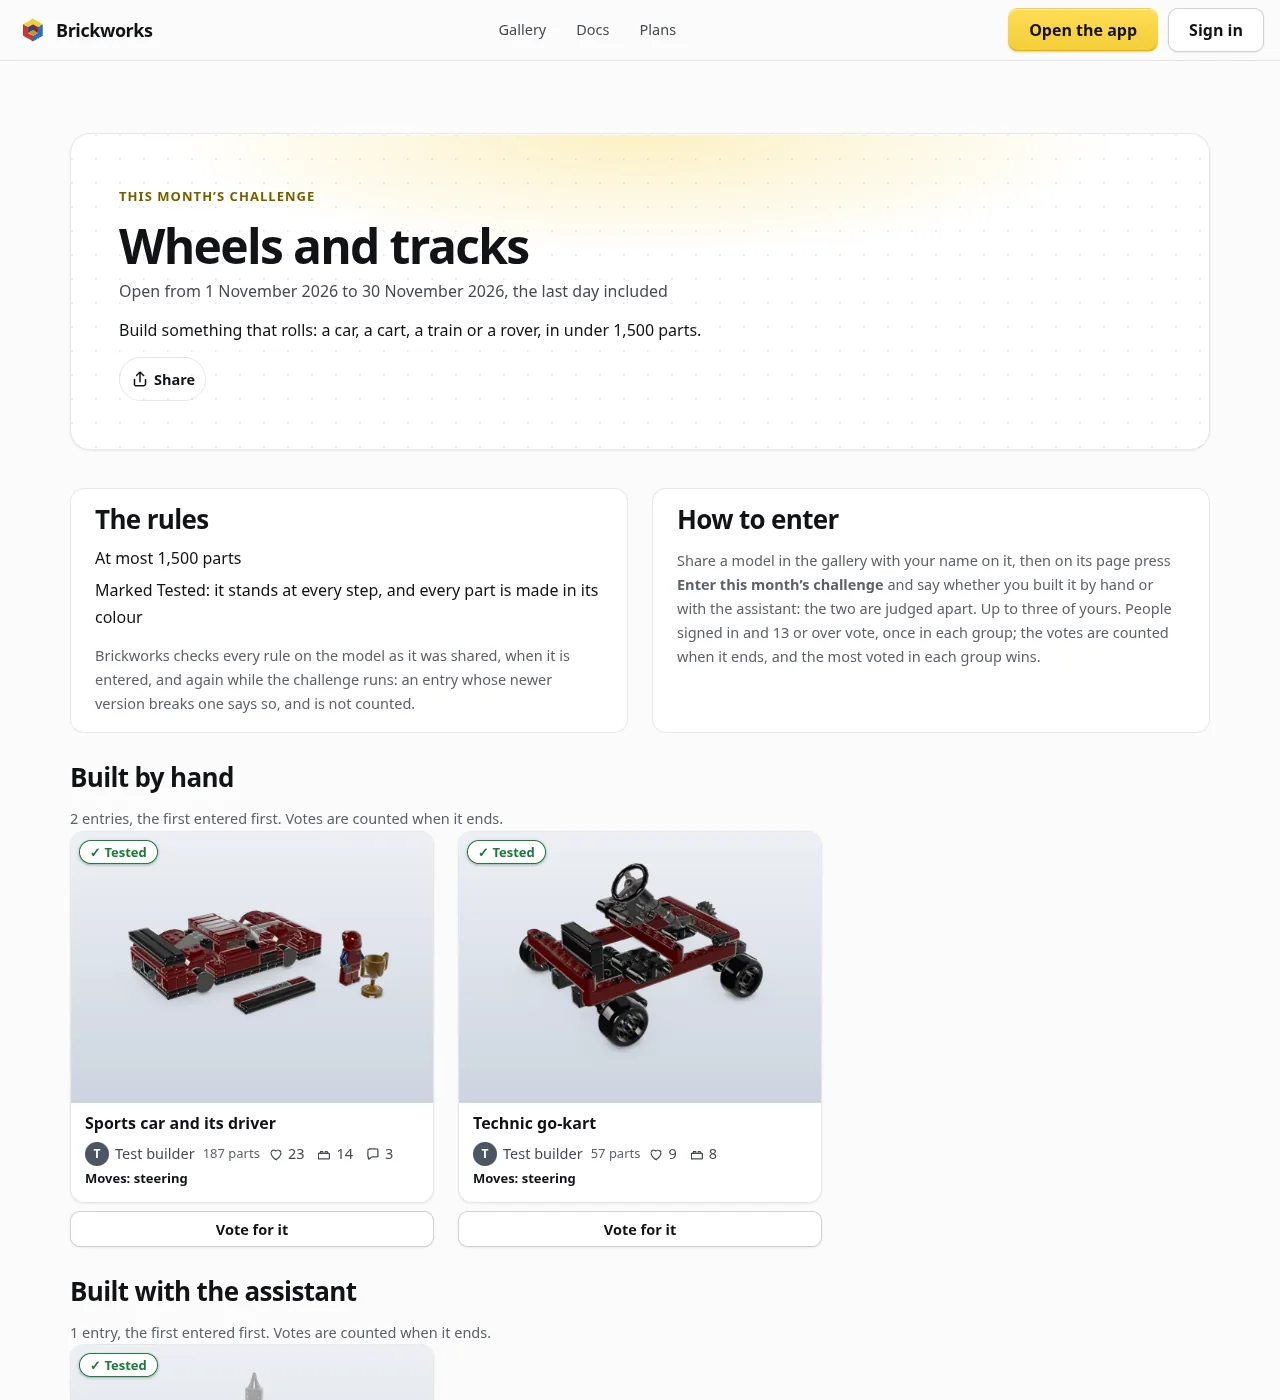
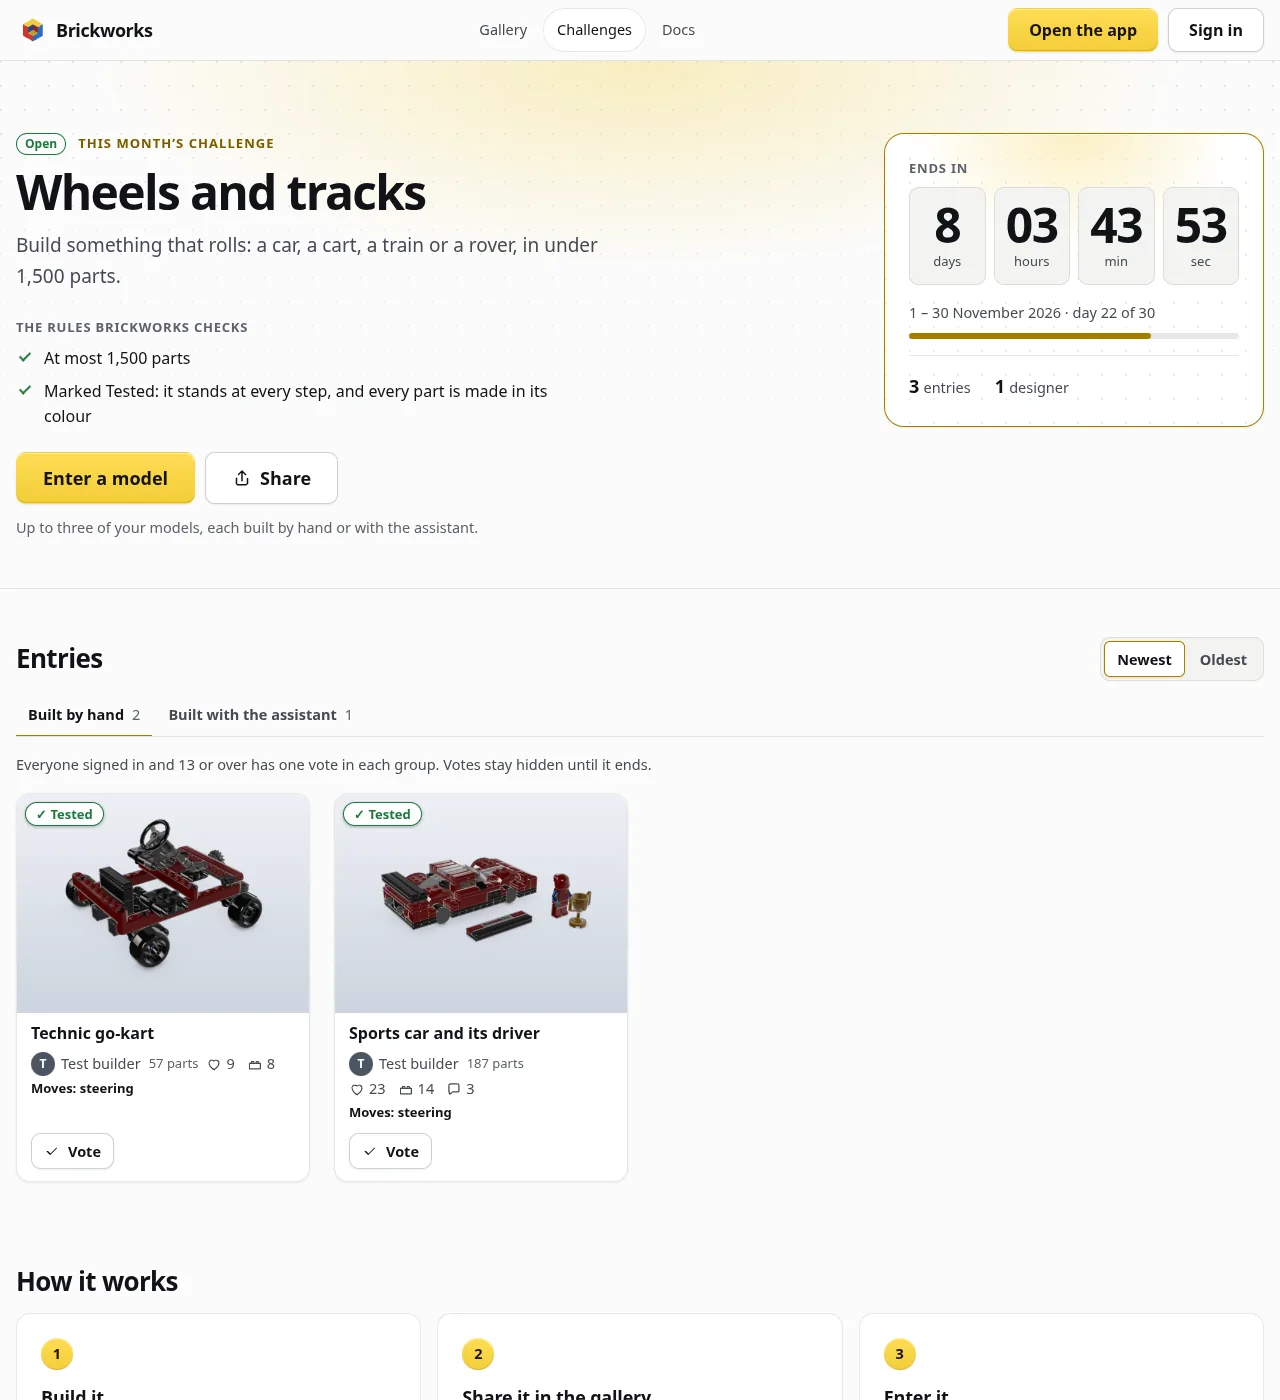
The docs show the home page as it opens now, and the header without Plans
Two new pictures, a computer's first screen and a phone's, on the
gallery's page where it says what the home page shows. Every site
picture is taken again for the header. The challenge page's picture
waited for a .card its redesign no longer has, so it failed and kept the
old layout; it waits for an entry now, and its words say the new page.

diff --git a/docs-site/gallery.md b/docs-site/gallery.md
@@ -26,7 +26,11 @@ The [home page](/) opens on the gallery. Under one line of what Brickworks is, a
 - **New**, the newest first.
 - **Real sets in 3D**, the biggest sets with a 3D model, as **Sets** orders them by Most parts.
 
+![The home page on a computer: Gallery, Challenges and Docs across the top; Build, share and find LEGO® models over a search for models, builders and sets and Start building; the month's challenge beside them; then the tabs Top, New and Real sets in 3D over a row of model cards, the first marked Week's pick.](/docs/img/home-first-screen.webp "The home page: the search, the challenge and the gallery's models first.")
+
 Swipe or scroll the row; the arrow keys move along the tabs. **See all** opens the tab's whole list in the gallery. In the search, the down arrow moves into what it found, [[Enter]] opens one, or the gallery's own search with what you typed; [[/]] puts the cursor in it.
+
+![The home page on a phone: Build, share and find LEGO® models, the search, Start building, and the tabs Top, New and Real sets in 3D over the first model cards, which scroll sideways.](/docs/img/home-phone.webp "On a phone, the same first screen.")
 
 <!-- covers
 ui:the home page's shelf

diff --git a/docs-site/challenges.md b/docs-site/challenges.md
@@ -11,7 +11,7 @@ Each month Brickworks sets a building challenge: a theme, a brief and rules it c
 
 The page has the brief and its days, **The rules**, **How to enter**, and the entries in two groups, **Built by hand** and **Built with the assistant**, judged apart.
 
-![This month's challenge page: its title, its days and brief with Share, The rules Brickworks checks, How to enter, and the entries under Built by hand and Built with the assistant, each card with Vote for it.](/docs/img/challenge-page.webp "brickworks.diy/challenge.")
+![This month's challenge page: its title and brief, The rules Brickworks checks, Enter a model and Share, and beside them the time left with its days; under them the entries in two tabs, Built by hand and Built with the assistant, each card with Vote, then How it works.](/docs/img/challenge-page.webp "brickworks.diy/challenge.")
 
 <!-- covers
 ui:this month's challenge page
